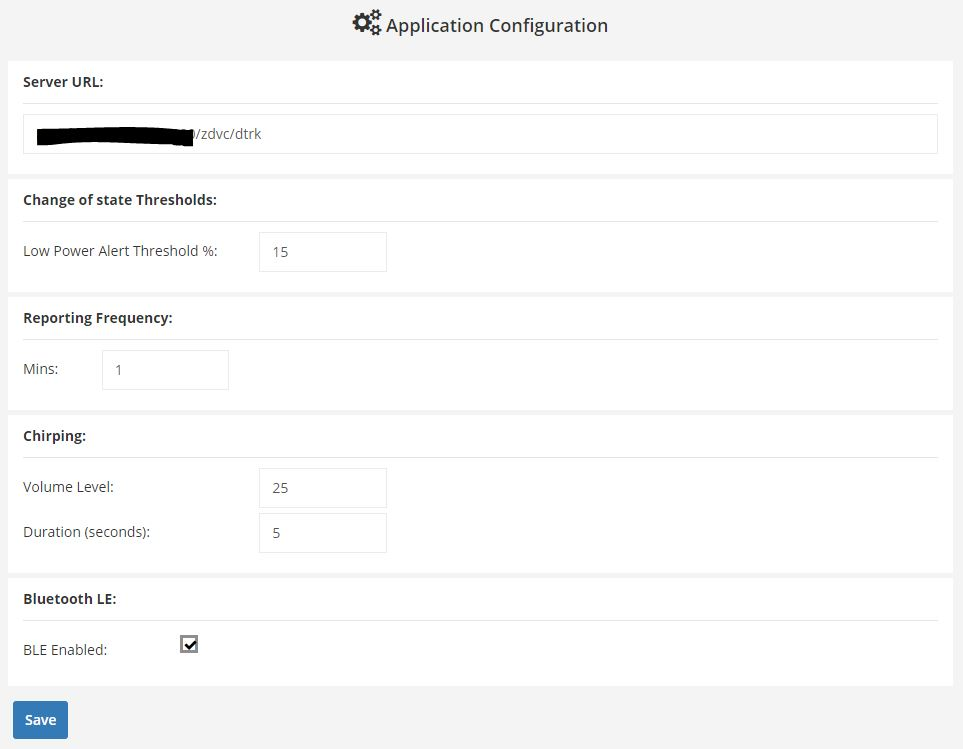
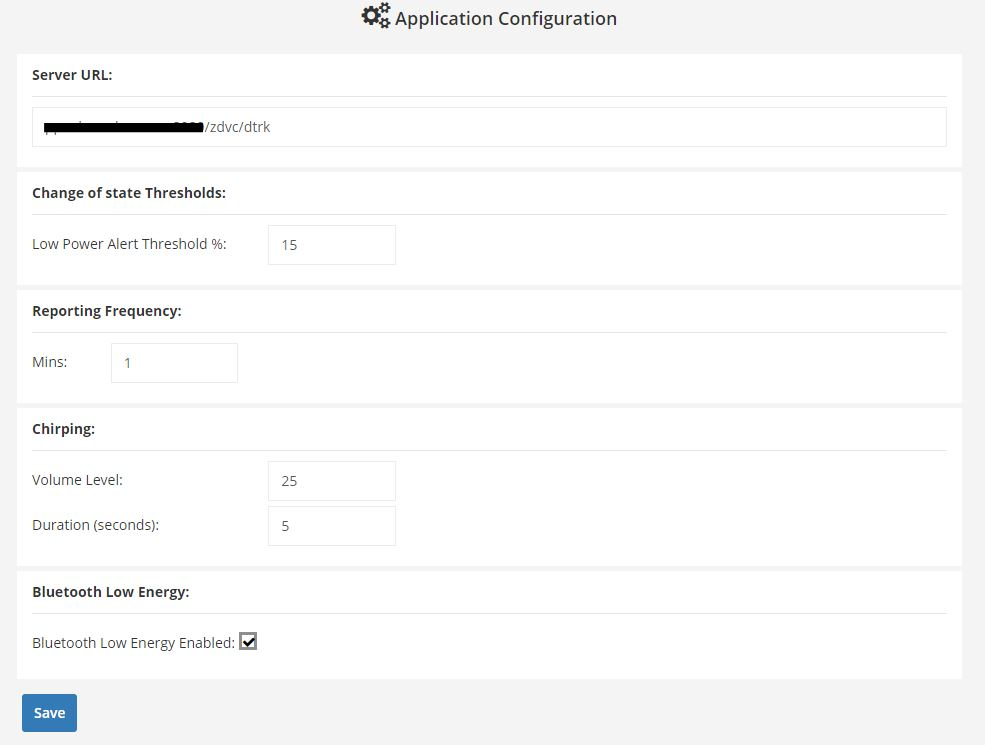
[SOLA-4506] DTRK 2.3 - Update BLE

diff --git a/src/devicetracker/2-3/guide/config/index.md b/src/devicetracker/2-3/guide/config/index.md
@@ -8,6 +8,9 @@ productversion: '2.3'
 ##Overview
 This section discusses configuration settings for Device Tracker on the server and client.
 
+**Version History**
+* **Device Tracker 2.3 -** New Bluetooth Low Energy (BLE) feature for device proximity tracking.
+
 ##Server Configuration
 In the [Admin View](../admin) dashboard, click on the **Settings** tab to display the **Application Configuration** and **Device & Access Point Management** options. 
 
@@ -22,7 +25,7 @@ In the [Admin View](../admin) dashboard, click on the **Settings** tab to displa
  * **Volume Level** - Specifies the loudness level of the chirping sound to be heard from the device being located. Minimum value: 15, maximum value: 100.
  * **Duration** - Amount of time in seconds for the chirping to sound on the device being located. Minimum value: 1, maximum value: 30.
 
-* **Bluetooth LE-** Enable/disable BLE (Bluetooth Low Energy) for proximity tracking. If enabled, displays a BLE proximity indicator in the client app identifying how close or far the tracking device is in reference to the target device being tracked. Proximity is based on Bluetooth beacons detected from the tracking device received from the misplaced device. If disabled, no BLE proximity indicator is displayed on the client device; therefore, the user must rely on audio for device tracking. If a device is in the process of being tracked and BLE is toggled, a notification message appears on the tracking device displaying the BLE status change and the screen refreshes accordingly in displaying the proximity indicator.
+* **Bluetooth Low Energy** - Enable/disable BLE for proximity tracking. If enabled, displays a BLE proximity indicator in the client app identifying how close or far the tracking device is in reference to the target device being tracked. Proximity is based on Bluetooth beacons detected from the tracking device received from the misplaced device. If disabled, no BLE proximity indicator is displayed on the client device; therefore, the user must rely on audio for device tracking. If a device is in the process of being tracked and BLE is toggled, a notification message appears on the tracking device displaying the BLE status change and the screen refreshes accordingly in displaying the proximity indicator.
 
 <!--
  * **Disconnect Threshold Time** - Defines the amount of time (hours and minutes) to elapse for a device to be considered in the disconnected state due to lack of response from the device within this time frame. Minimum value: 7 min, maximum value: 12 hours. -->

diff --git a/src/devicetracker/2-3/guide/mgmt/index.md b/src/devicetracker/2-3/guide/mgmt/index.md
@@ -9,14 +9,14 @@ productversion: '2.3'
 Monitoring device presence and prevention of misplaced devices is important for smooth operational productivity. This section covers the procedures to organize, track, locate, and prevent misplaced devices.
 
 **Version History**
-* **Device Tracking 2.3 -** New BLE (Bluetooth Low Energy) feature for device proximity tracking.
+* **Device Tracker 2.3 -** New Bluetooth Low Energy (BLE) feature for device proximity tracking.
 
 ## Locating Devices
 The facility administrator monitors devices from the [admin dashboard](../admin) and can mark a device "To be found" if it is misplaced or at risk, e.g. needs to be charged due to low battery. The administrator assigns an associate to search the target device by using their Zebra device to locate the general area where the target device is located. This general location is based on the Access Point (AP) where it last connected. The BLE proximity indicator can be used to identify how close or far the target device is in relation to the associate. To further pinpoint device location, a sound can be played by tapping the **Play Sound** button on the associate's device to locate the target device by audio sound. The volume level and sound duration are adjustable in the server [Settings](../config).
 
 **Important**:
 * WiFi must be enabled on both devices.
-* For BLE proximity tracking, [BLE](../config) must be enabled on the server. 
+* For BLE proximity tracking, the [BLE](../config) option must be enabled on the server. 
 * When **Play Sound** is tapped repeatedly on the client during network congestion, the congestion may cause a delay in the playback. Once the congestion disappears, the audio plays back once based on the last tap to play audio.
 * During network congestion, client requests over WiFi frequency band 2.4 GHz may not reach the server. For example, requests to **Play Sound** may not reach the intended device. In this situation, Zebra recommends to move to a 5 GHz frequency band or move to another network without congestion.
 * If the device is in **Do Not Disturb (DND)** mode, it prevents any sound from being emitted from the device and therefore **Play Sound** has no effect. For **Play Sound** to function while in **Do Not Disturb** mode, access must be enabled for Device Tracker in the Do Not Disturb access settings on the device. 
